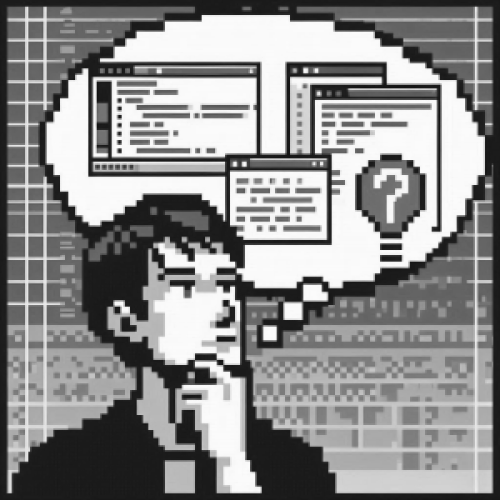
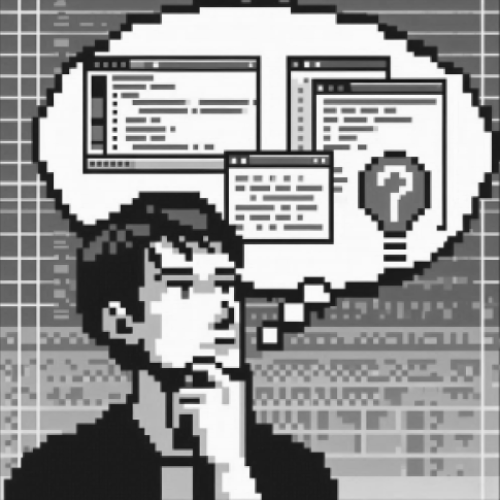
update index images to match the style better

diff --git a/homeapp/templates/homeapp/index.html b/homeapp/templates/homeapp/index.html
@@ -14,7 +14,7 @@
         <div class="windows95-form-title">
             <h2 class="windows95-form-title-text">Welcome to Mentor Matrix</h2>
         </div>
-        <img src="{% static 'images/welcome-girl.png' %}" alt="Pixel art image of a girl entering a world of coding.">
+        <img src="{% static 'images/young-coder.png' %}" alt="Pixel art image of a girl entering a world of coding.">
         <p>This retro-inspired mentorship platform is designed to connect and empower individuals of all genders who are passionate
             about code! While championing the voices and achievements of women in tech, we welcome everyone who seeks to learn, share, and grow in a supportive community.
            </p>
@@ -34,6 +34,7 @@
             <h2 class="windows95-form-title-text">Register & build your profile</h2>
         </div>
         <img src="{% static 'images/solutionsimg.png' %}" alt="Pixel art image of a woman coding.">
+        <p>You can sign up as a mentor or a pontential mentee.</p>
         <p>Choose which coding languages you are interested in.</p>
     </div>
 
